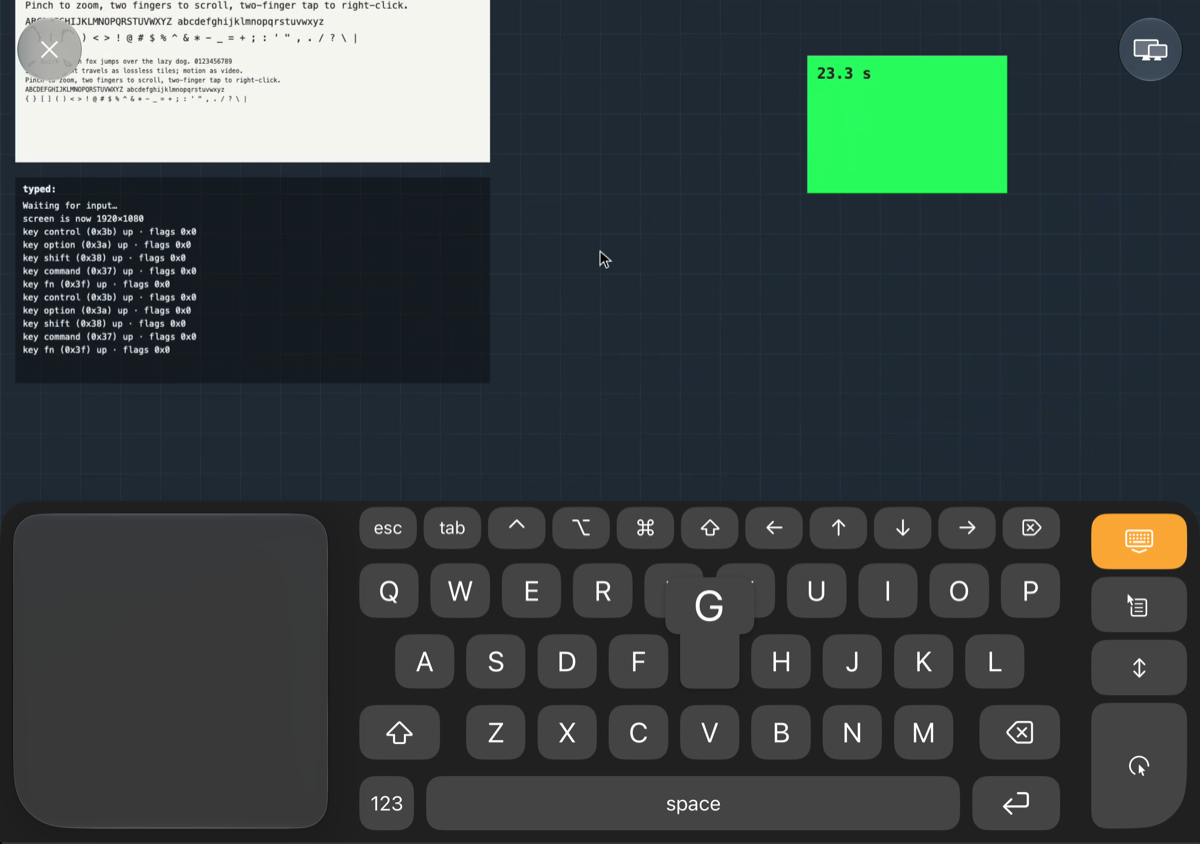
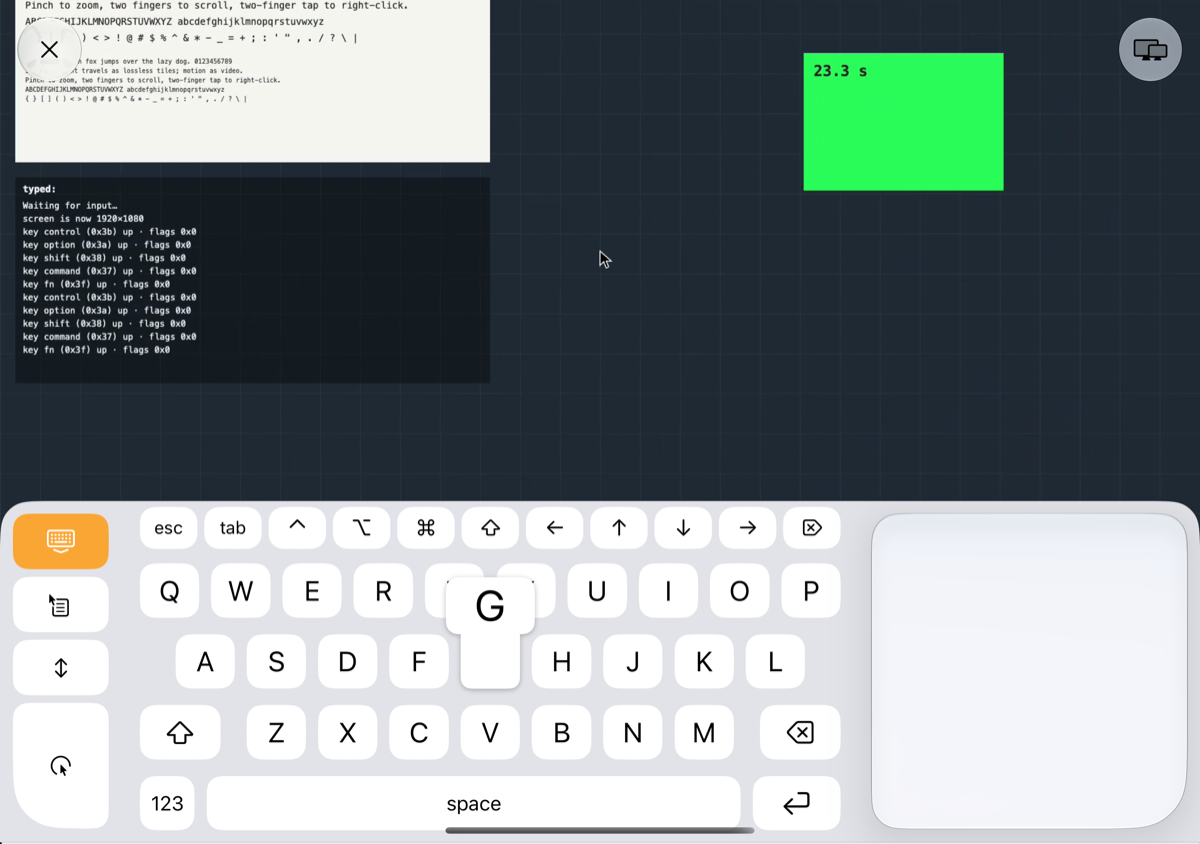
Duo Desktop 0.1 (53): sideways and outside pictures retaken at build 53 with the trackpad on the right; captions checked

diff --git a/README.md b/README.md
@@ -15,7 +15,7 @@ It has two parts:
 **Read [Known issues](#known-issues) before you start.** This was built for one person's setup and is not a
 finished product. This page describes **build 0.1 (53)**.
 
-*All pictures on this page are the real app, in the iPhone Duo Simulator (upright pictures: build 53; sideways and outside pictures: build 49). The Macs in them are Glass
+*All pictures on this page are the real app, in the iPhone Duo Simulator (build 53). The Macs in them are Glass
 Act's test host (a stand-in Mac that draws a test picture) under made-up names. No real Mac is shown.*
 
 Contents:
@@ -41,7 +41,7 @@ Contents:
 
 | | |
 |---|---|
-| <img src="docs/images/01-mac-list.png" width="300" alt="The list of Macs: Studio Mac ready, Office Mac sign in needed, Laptop not reachable"> | **The list of Macs.** Each Mac you added, with its state: **Ready**, **Sign in needed** or **Not reachable**. Tap a Mac to connect. Tap **ⓘ** beside it for its settings. Below the Macs: the **Security** section, the **Trackpad** side (Left or Right), keyboard haptics and **Keyboard Shortcuts**. |
+| <img src="docs/images/01-mac-list.png" width="300" alt="The list of Macs: Studio Mac ready, Office Mac sign in needed, Laptop not reachable"> | **The list of Macs.** Each Mac you added, with its state: **Ready**, **Sign in needed** or **Not reachable**. Tap a Mac to connect. Tap **ⓘ** beside it for its settings. Below the Macs: the **Security** section, **This iPhone** (the phone's key), the **Trackpad** side (Left or Right) and **Keyboard Shortcuts**. Further down, below the picture: **Keyboard Haptics**. |
 
 ---
 
@@ -93,9 +93,9 @@ the side. The Mac keys keep their order.
 | |
 |---|
 | <img src="docs/images/12-horizontal.png" width="640" alt="Held sideways: the whole Mac screen, the trackpad and the button column"> |
-| **Sideways.** The whole Mac screen, the trackpad at one side and the button column at the other. This picture is from an earlier test with the trackpad set to the left. |
+| **Sideways.** The whole Mac screen, with the button column on the left and the trackpad at the bottom right (the trackpad on the right, the default). |
 | <img src="docs/images/13-horizontal-keyboard.png" width="640" alt="Held sideways with Duo Desktop's keyboard up"> |
-| **Typing sideways.** Duo Desktop's own keyboard, with Mac keys along the top (esc, tab, Control, Option, Command, Shift, arrows). Keys show a pop-up of the letter as you press them, like the iPhone's keyboard. Here the G key is held. |
+| **Typing sideways.** Duo Desktop's own keyboard, with Mac keys along the top (esc, tab, Control, Option, Command, Shift, arrows). Keys show a pop-up of the letter as you press them, like the iPhone's keyboard. Here the G key is held. The trackpad stays at the bottom right. |
 
 ---
 
